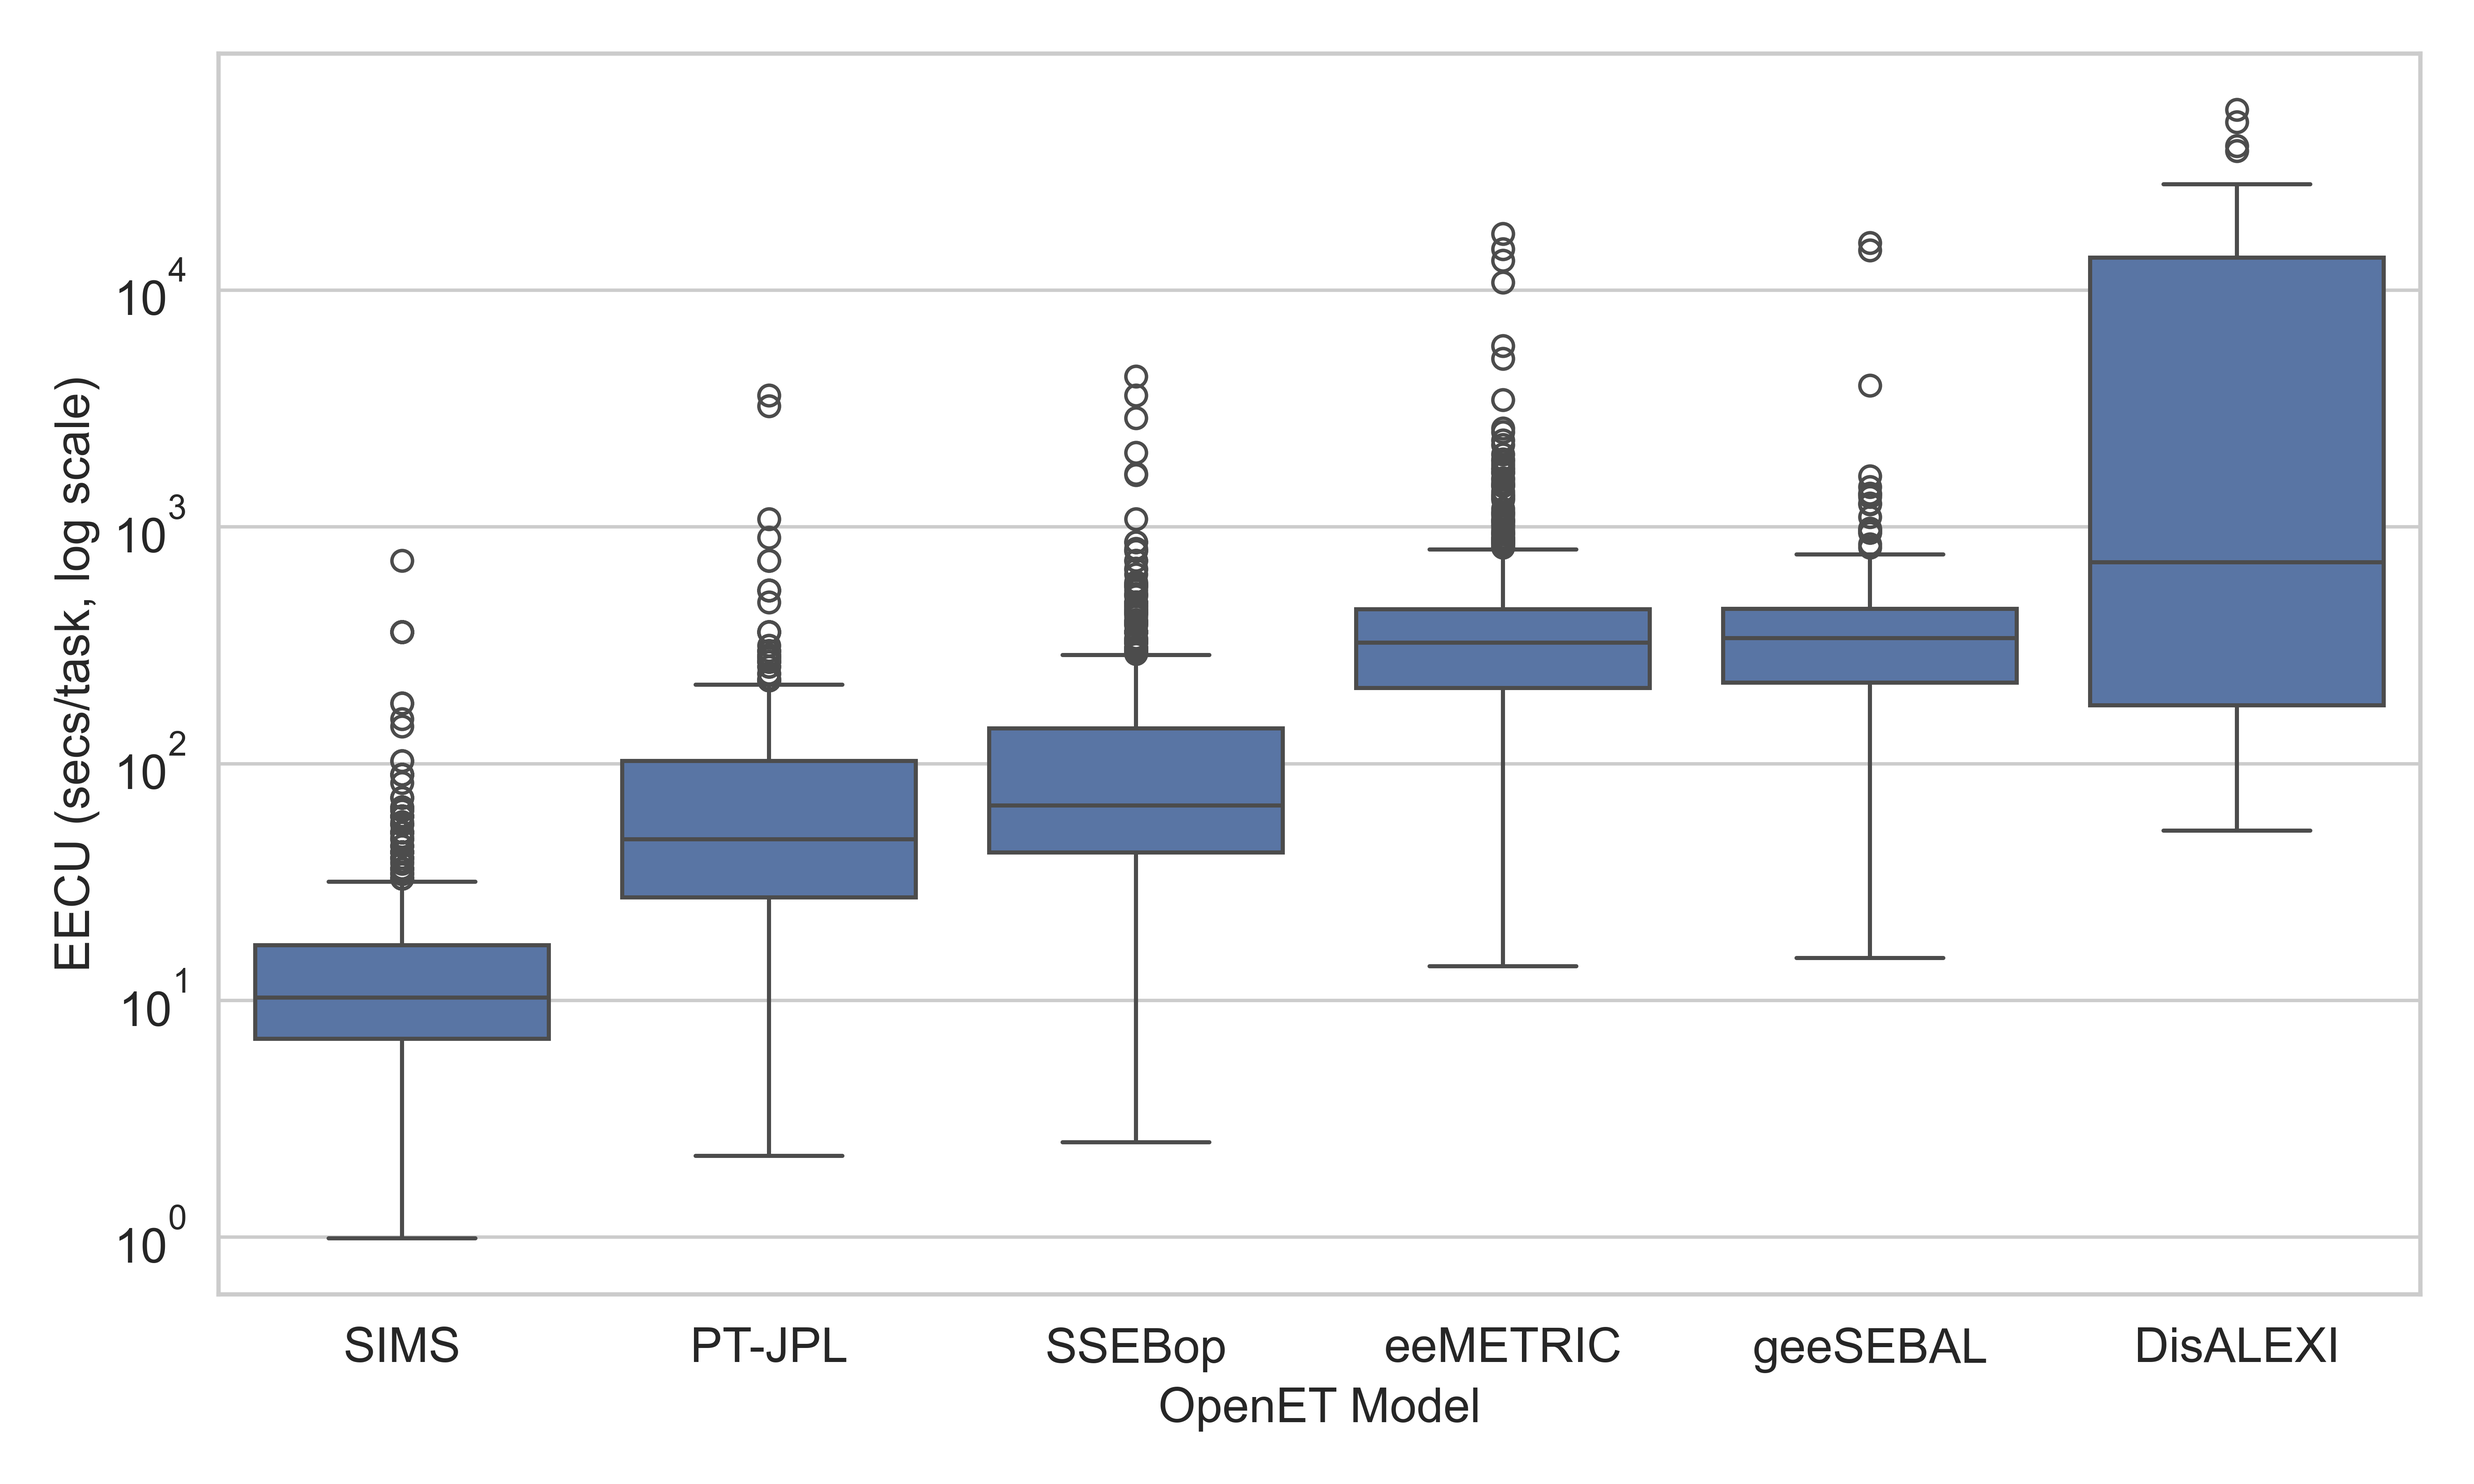
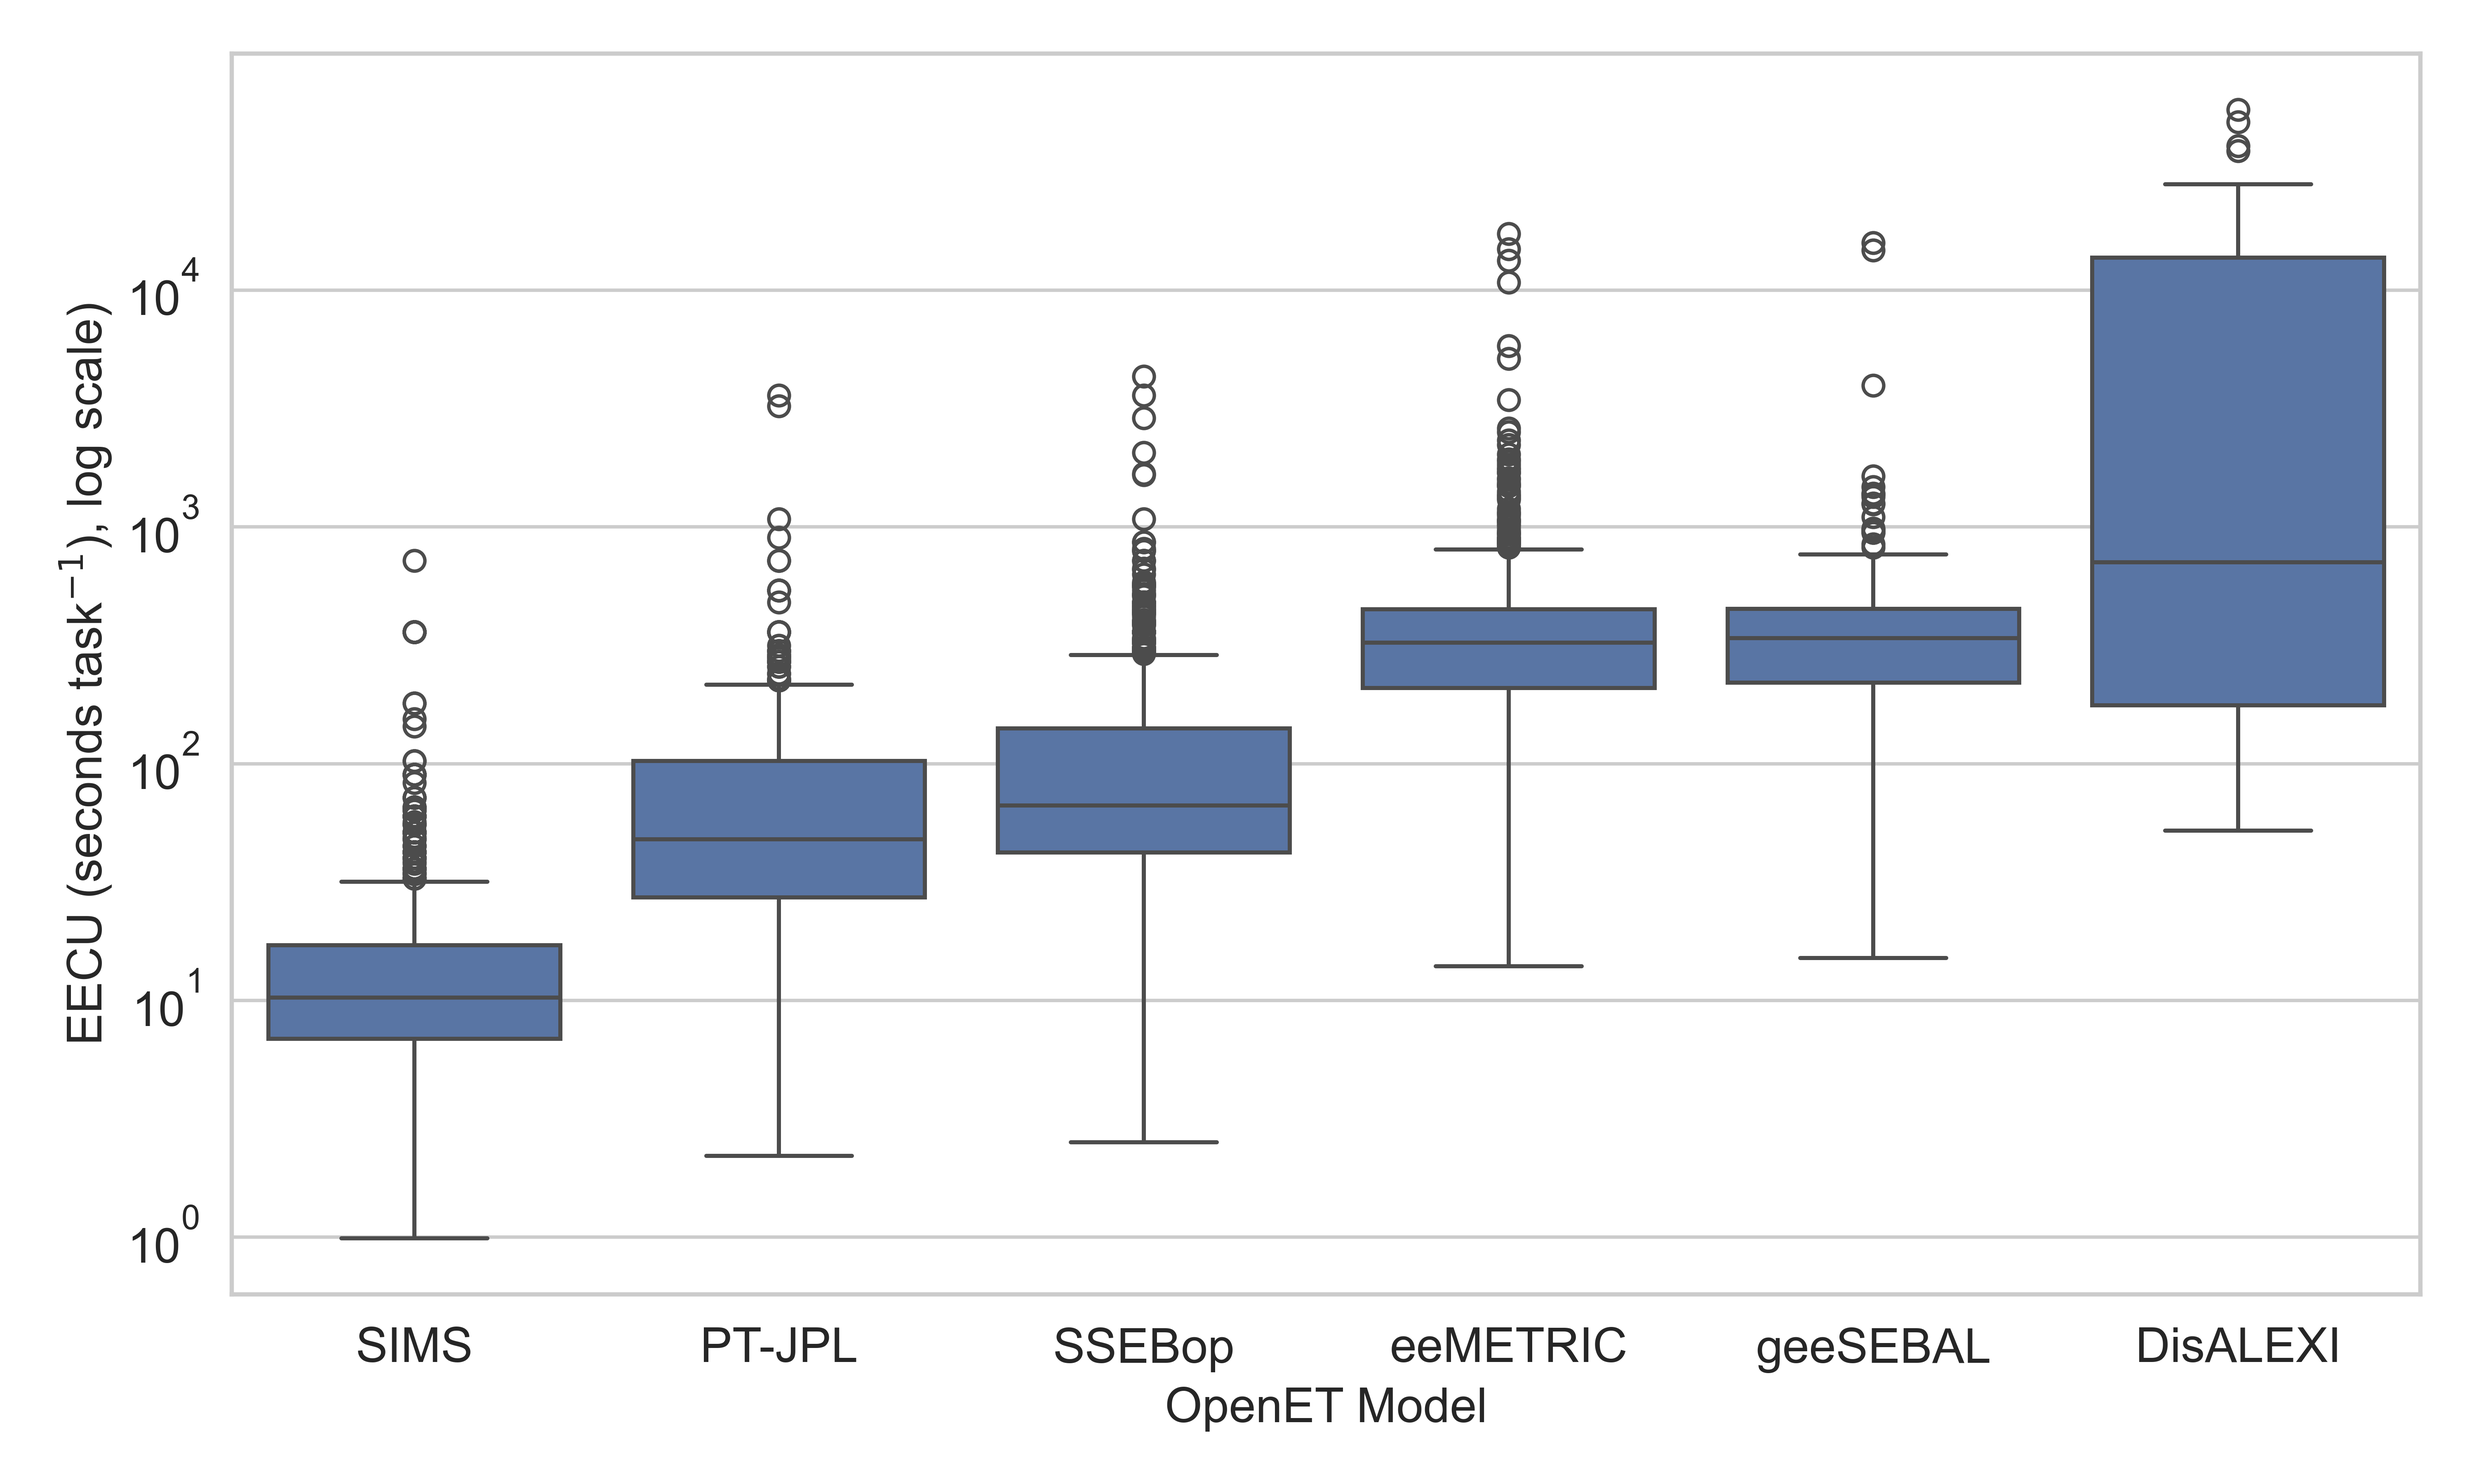
Update EECU box plot

diff --git a/examples/eecu_analysis.py b/examples/eecu_analysis.py
@@ -136,7 +136,8 @@ if __name__ == "__main__":
     )
     ax.set_yscale("log")    
     ax.set_xlabel("OpenET Model", fontsize=14)
-    ylab = f"{plot_col[:-1]}, log scale)"
+    eecu_label = plot_col.replace("secs/task", "seconds task$^{-1}$")
+    ylab = f"{eecu_label}, log scale)"
     ax.set_ylabel(ylab, fontsize=14)
     ax.tick_params(axis='both', labelsize=14)
     plt.tight_layout()
